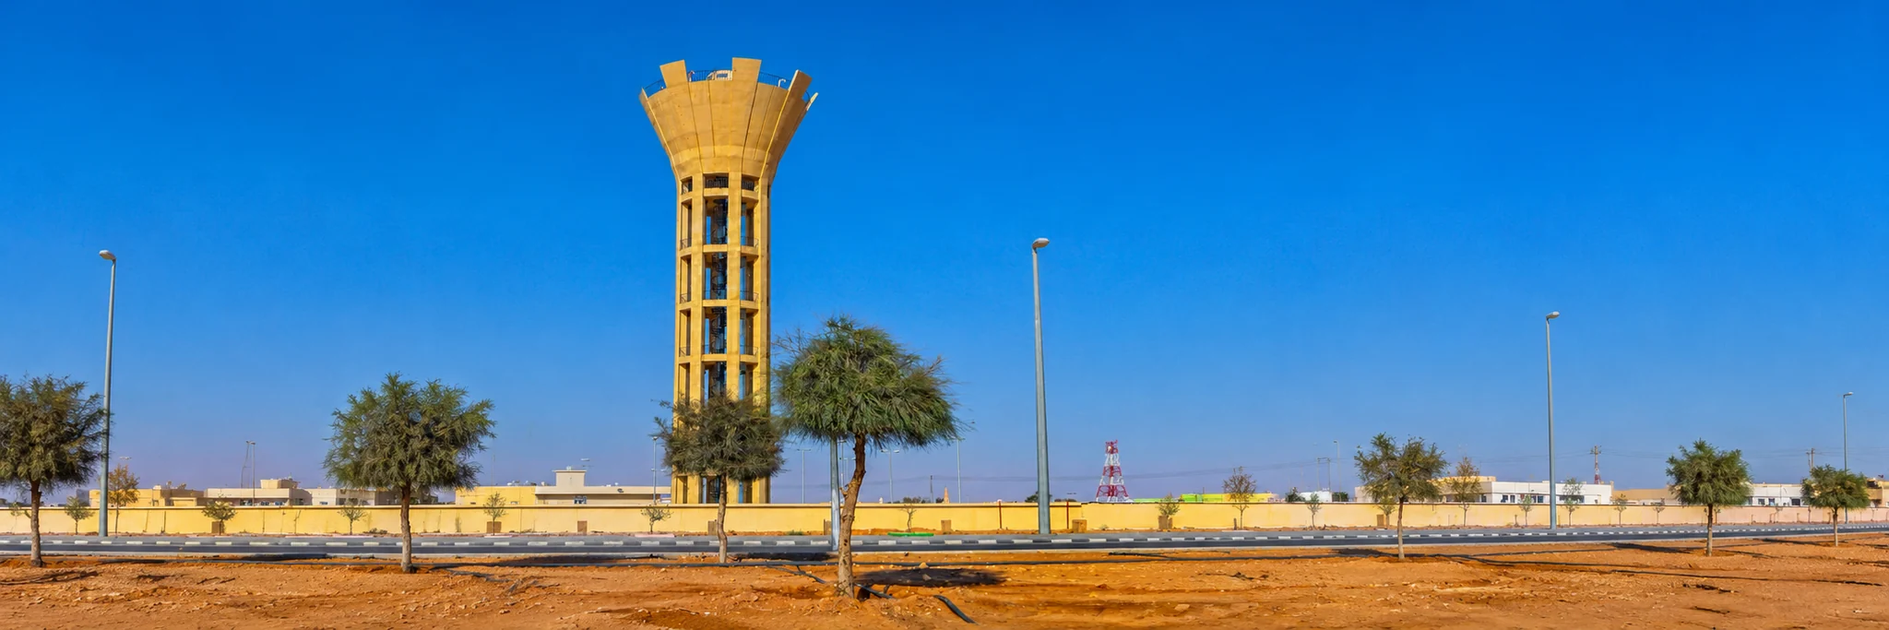
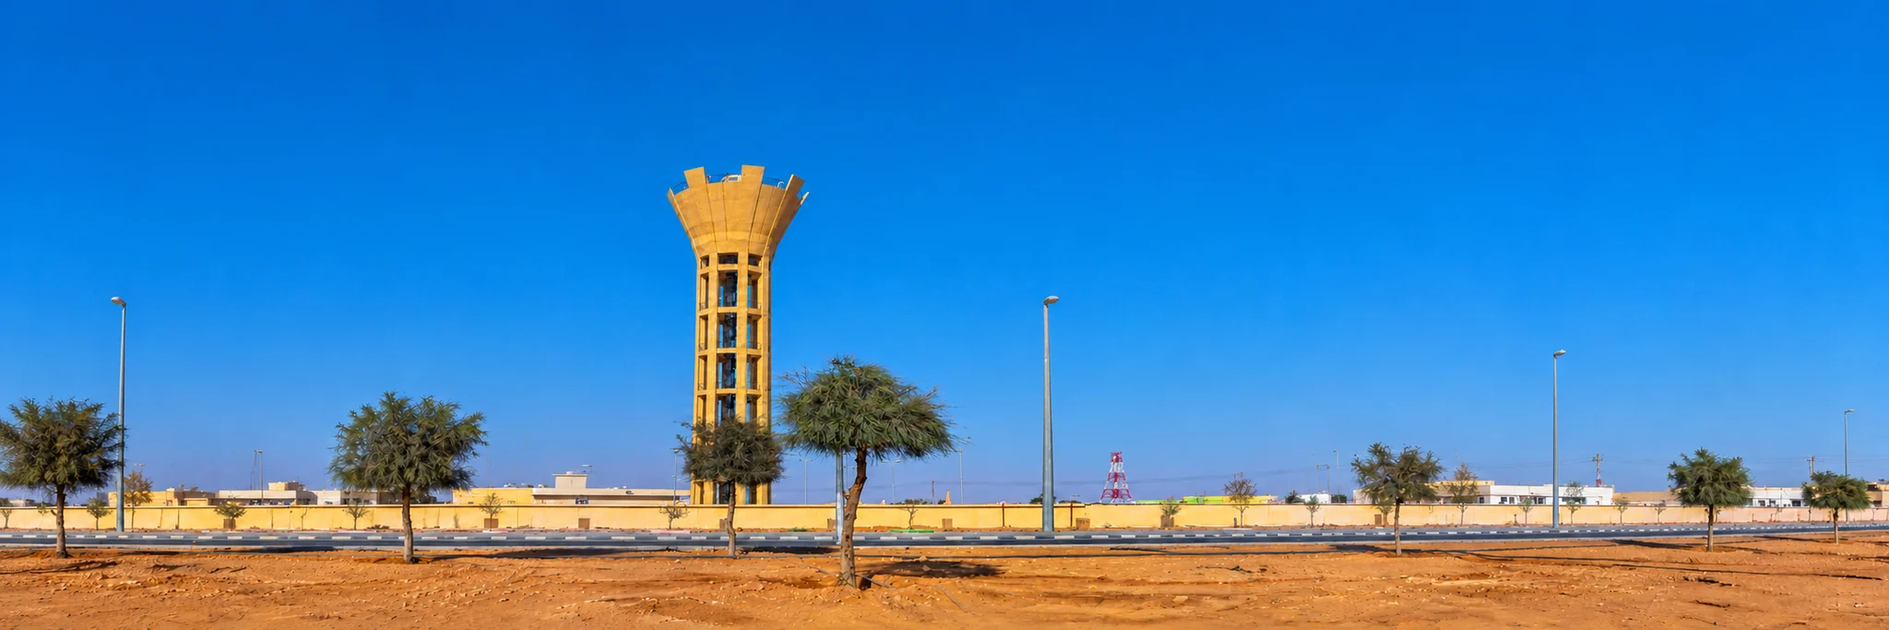
Recheck Arar and Badr with complete landmark breathing room

Changed region(s): [[0.0, 0.0922, 1.0, 1.0]]

diff --git a/riyad-opportunities/qa/panorama-preview/index.html b/riyad-opportunities/qa/panorama-preview/index.html
@@ -3,4 +3,4 @@
 <section class="sample"><h2>خميس مشيط</h2><div id="khamis" class="city-hero khamis"><img src="khamis-panorama-natural.webp" alt="تصور بانورامي محسّن لخميس مشيط"><div class="city-hero-copy">مرحبًا بك<br>فرع خميس مشيط</div></div></section>
 <section class="sample"><h2>الرياض — الصورة الحالية</h2><div id="riyadh" class="city-hero riyadh"><img src="../../assets/images/city-riyadh.webp" alt="الرياض"><div class="city-hero-copy">مرحبًا بك<br>فرع الرياض</div></div></section>
 <section class="sample"><h2>الباحة — الصورة الحالية</h2><div id="baha" class="city-hero baha"><img src="../../assets/images/cities/al-baha-cc0.webp" alt="الباحة"><div class="city-hero-copy">مرحبًا بك<br>فرع الباحة</div></div></section>
-<p><a href="manifest.json">المصادر والتراخيص والتعديلات</a> — لا تغيّر هذه المعاينة الموقع الحي أو صور المدن المنشورة.</p><h1>تشخيص الصور الحالية دون أي توليد: قص cover مع تحسين التركيز لثماني صور</h1><section class="sample"><h2>الخبر</h2><div id="contain-01" class="city-hero"><img style="object-position:20% 50%" src="../../assets/images/cities/khobar-pexels.webp" alt="الخبر"><div class="city-hero-copy">الخبر</div></div></section><section class="sample"><h2>الظهران</h2><div id="contain-02" class="city-hero"><img style="object-position:20% 50%" src="../../assets/images/cities/dhahran-pexels.webp" alt="الظهران"><div class="city-hero-copy">الظهران</div></div></section><section class="sample"><h2>ينبع</h2><div id="contain-03" class="city-hero"><img style="object-position:20% 50%" src="../../assets/images/cities/yanbu-pexels.webp" alt="ينبع"><div class="city-hero-copy">ينبع</div></div></section><section class="sample"><h2>بريدة</h2><div id="contain-04" class="city-hero"><img style="object-position:20% 50%" src="../../assets/images/cities/buraidah-tower-real.webp" alt="بريدة"><div class="city-hero-copy">بريدة</div></div></section><section class="sample"><h2>البكيرية</h2><div id="contain-05" class="city-hero"><img style="object-position:50% 50%" src="../../assets/images/cities/bukayriyah-rajhi-palace-real.jpg" alt="البكيرية"><div class="city-hero-copy">البكيرية</div></div></section><section class="sample"><h2>الدوادمي</h2><div id="contain-06" class="city-hero"><img style="object-position:50% 25%" src="../../assets/images/cities/dawadmi-palace-real.jpg" alt="الدوادمي"><div class="city-hero-copy">الدوادمي</div></div></section><section class="sample"><h2>المجمعة</h2><div id="contain-07" class="city-hero"><img style="object-position:50% 50%" src="../../assets/images/cities/majmaah-menikh-real.jpg" alt="المجمعة"><div class="city-hero-copy">المجمعة</div></div></section><section class="sample"><h2>المذنب</h2><div id="contain-08" class="city-hero"><img style="object-position:50% 50%" src="../../assets/images/cities/spa-city-2551563.jpg" alt="المذنب"><div class="city-hero-copy">المذنب</div></div></section><section class="sample"><h2>الدلم</h2><div id="contain-09" class="city-hero"><img style="object-position:50% 25%" src="../../assets/images/cities/dilam-gate-real.jpg" alt="الدلم"><div class="city-hero-copy">الدلم</div></div></section><section class="sample"><h2>المزاحمية</h2><div id="contain-10" class="city-hero"><img style="object-position:50% 50%" src="../../assets/images/cities/muzahimiyah-tower-real.jpg" alt="المزاحمية"><div class="city-hero-copy">المزاحمية</div></div></section><section class="sample"><h2>القويعية</h2><div id="contain-11" class="city-hero"><img style="object-position:50% 50%" src="../../assets/images/cities/quwayiyah-musher-real.jpg" alt="القويعية"><div class="city-hero-copy">القويعية</div></div></section><section class="sample"><h2>وادي الدواسر</h2><div id="contain-12" class="city-hero"><img style="object-position:50% 50%" src="../../assets/images/cities/wadi-dawasir-palace-real.jpg" alt="وادي الدواسر"><div class="city-hero-copy">وادي الدواسر</div></div></section><section class="sample"><h2>السليل</h2><div id="contain-13" class="city-hero"><img style="object-position:50% 50%" src="../../assets/images/cities/sulayyil-park-real.jpg" alt="السليل"><div class="city-hero-copy">السليل</div></div></section><section class="sample"><h2>الزلفي</h2><div id="contain-14" class="city-hero"><img style="object-position:50% 50%" src="../../assets/images/cities/zulfi-landmark-real.jpg" alt="الزلفي"><div class="city-hero-copy">الزلفي</div></div></section><section class="sample"><h2>ضرما</h2><div id="contain-15" class="city-hero"><img style="object-position:50% 50%" src="../../assets/images/cities/dhurma-heritage-real.jpg" alt="ضرما"><div class="city-hero-copy">ضرما</div></div></section><section class="sample"><h2>تبوك</h2><div id="contain-16" class="city-hero"><img style="object-position:50% 50%" src="../../assets/images/cities/tabuk.webp" alt="تبوك"><div class="city-hero-copy">تبوك</div></div></section><section class="sample"><h2>حائل</h2><div id="contain-17" class="city-hero"><img style="object-position:50% 50%" src="../../assets/images/cities/hail.webp" alt="حائل"><div class="city-hero-copy">حائل</div></div></section><section class="sample"><h2>دومة الجندل</h2><div id="contain-18" class="city-hero"><img style="object-position:20% 50%" src="../../assets/images/cities/city-real-50224823941.jpg" alt="دومة الجندل"><div class="city-hero-copy">دومة الجندل</div></div></section><section class="sample"><h2>خيبر</h2><div id="contain-19" class="city-hero"><img style="object-position:50% 75%" src="../../assets/images/cities/khaybar-qamus-real.jpg" alt="خيبر"><div class="city-hero-copy">خيبر</div></div></section><section class="sample"><h2>ضباء</h2><div id="contain-20" class="city-hero"><img style="object-position:50% 46%" src="../../assets/images/cities/spa-city-2369525.jpg" alt="ضباء"><div class="city-hero-copy">ضباء</div></div></section><section class="sample"><h2>أملج</h2><div id="contain-21" class="city-hero"><img style="object-position:50% 28%" src="../../assets/images/cities/spa-city-2507676.jpg" alt="أملج"><div class="city-hero-copy">أملج</div></div></section><section class="sample"><h2>سيهات</h2><div id="contain-22" class="city-hero"><img style="object-position:50% 50%" src="../../assets/images/cities/saihat-corniche-real.jpg" alt="سيهات"><div class="city-hero-copy">سيهات</div></div></section><section class="sample"><h2>الخفجي</h2><div id="contain-23" class="city-hero"><img style="object-position:50% 50%" src="../../assets/images/cities/khafji-mall-real.jpg" alt="الخفجي"><div class="city-hero-copy">الخفجي</div></div></section><section class="sample"><h2>القطيف</h2><div id="contain-24" class="city-hero"><img style="object-position:50% 50%" src="../../assets/images/cities/spa-city-2573318.jpg" alt="القطيف"><div class="city-hero-copy">القطيف</div></div></section><section class="sample"><h2>عرعر</h2><div id="contain-25" class="city-hero"><img style="object-position:50% 50%" src="../../assets/images/cities/arar-water-tower-real.jpg" alt="عرعر"><div class="city-hero-copy">عرعر</div></div></section><section class="sample"><h2>العلا</h2><div id="contain-26" class="city-hero"><img style="object-position:50% 45%" src="../../assets/images/cities/city-real-49712771757.jpg" alt="العلا"><div class="city-hero-copy">العلا</div></div></section><section class="sample"><h2>حفر الباطن</h2><div id="contain-27" class="city-hero"><img style="object-position:50% 50%" src="../../assets/images/cities/hafar-landmark-real.jpg" alt="حفر الباطن"><div class="city-hero-copy">حفر الباطن</div></div></section><section class="sample"><h2>صفوى</h2><div id="contain-28" class="city-hero"><img style="object-position:50% 74%" src="../../assets/images/cities/safwa-coast-real.jpg" alt="صفوى"><div class="city-hero-copy">صفوى</div></div></section><section class="sample"><h2>القريات</h2><div id="contain-29" class="city-hero"><img style="object-position:50% 50%" src="../../assets/images/cities/qurayyat-kaf-real.jpg" alt="القريات"><div class="city-hero-copy">القريات</div></div></section><section class="sample"><h2>الطائف</h2><div id="contain-30" class="city-hero"><img style="object-position:50% 50%" src="../../assets/images/cities/taif.webp" alt="الطائف"><div class="city-hero-copy">الطائف</div></div></section><section class="sample"><h2>نجران</h2><div id="contain-31" class="city-hero"><img style="object-position:50% 50%" src="../../assets/images/cities/najran.webp" alt="نجران"><div class="city-hero-copy">نجران</div></div></section><section class="sample"><h2>جازان</h2><div id="contain-32" class="city-hero"><img style="object-position:50% 50%" src="../../assets/images/cities/jazan.webp" alt="جازان"><div class="city-hero-copy">جازان</div></div></section><section class="sample"><h2>أبو عريش</h2><div id="contain-33" class="city-hero"><img style="object-position:50% 50%" src="../../assets/images/cities/spa-city-2382886.jpg" alt="أبو عريش"><div class="city-hero-copy">أبو عريش</div></div></section><section class="sample"><h2>النماص</h2><div id="contain-34" class="city-hero"><img style="object-position:20% 50%" src="../../assets/images/cities/city-real-50922230847.jpg" alt="النماص"><div class="city-hero-copy">النماص</div></div></section><section class="sample"><h2>بدر</h2><div id="contain-35" class="city-hero"><img style="object-position:50% 50%" src="../../assets/images/cities/badr-arish-real.jpg" alt="بدر"><div class="city-hero-copy">بدر</div></div></section><section class="sample"><h2>بلجرشي</h2><div id="contain-36" class="city-hero"><img style="object-position:50% 50%" src="../../assets/images/cities/spa-city-2287739.jpg" alt="بلجرشي"><div class="city-hero-copy">بلجرشي</div></div></section><section class="sample"><h2>بيشة</h2><div id="contain-37" class="city-hero"><img style="object-position:50% 50%" src="../../assets/images/cities/bisha-dam-real.jpg" alt="بيشة"><div class="city-hero-copy">بيشة</div></div></section><section class="sample"><h2>رابغ</h2><div id="contain-38" class="city-hero"><img style="object-position:50% 85%" src="../../assets/images/cities/rabigh-streetscape-real.jpg" alt="رابغ"><div class="city-hero-copy">رابغ</div></div></section><section class="sample"><h2>بيش</h2><div id="contain-39" class="city-hero"><img style="object-position:50% 50%" src="../../assets/images/cities/spa-city-2310374.jpg" alt="بيش"><div class="city-hero-copy">بيش</div></div></section><section class="sample"><h2>البكيرية — امتداد تمثيلي محسّن بالذكاء الاصطناعي</h2><p>امتداد تمثيلي محسّن بالذكاء الاصطناعي. Saudi Heritage Commission / هيئة التراث <a href="https://commons.wikimedia.org/wiki/File:%D9%85%D9%82%D8%B5%D9%88%D8%B1%D8%A9_%D8%A7%D9%84%D8%B1%D8%A7%D8%AC%D8%AD%D9%8A.jpg">الصورة الأصلية</a> <a href="https://creativecommons.org/licenses/by-sa/4.0/">CC BY-SA 4.0</a></p><div id="faithful-a-bukayriyah" class="city-hero"><img style="object-position:50% 50%" src="faithful-batch-a/bukayriyah-panorama-faithful.webp" alt="تصور تمثيلي: البكيرية"><div class="city-hero-copy">البكيرية</div></div></section><section class="sample"><h2>المجمعة — امتداد تمثيلي محسّن بالذكاء الاصطناعي</h2><p>امتداد تمثيلي محسّن بالذكاء الاصطناعي. هيئة التراث السعودية (Heritage Commission) <a href="https://commons.wikimedia.org/wiki/File:مرقب_منيخ.jpg">الصورة الأصلية</a> <a href="https://creativecommons.org/licenses/by-sa/4.0/">CC BY-SA4.0</a></p><div id="faithful-a-majmaah" class="city-hero"><img style="object-position:50% 50%" src="faithful-batch-a/majmaah-panorama-faithful.webp" alt="تصور تمثيلي: المجمعة"><div class="city-hero-copy">المجمعة</div></div></section><section class="sample"><h2>المزاحمية — امتداد تمثيلي محسّن بالذكاء الاصطناعي</h2><p>امتداد تمثيلي محسّن بالذكاء الاصطناعي. Andrew A. Shenouda <a href="https://commons.wikimedia.org/wiki/File:The_Main_Street_in_Al-Muzahimiyah_(HDR)_(3312344154).jpg">الصورة الأصلية</a> <a href="https://creativecommons.org/licenses/by/2.0/">CC BY2.0</a></p><div id="faithful-a-muzahimiyah" class="city-hero"><img style="object-position:50% 50%" src="faithful-batch-a/muzahimiyah-panorama-faithful.webp" alt="تصور تمثيلي: المزاحمية"><div class="city-hero-copy">المزاحمية</div></div></section><section class="sample"><h2>وادي الدواسر — امتداد تمثيلي محسّن بالذكاء الاصطناعي</h2><p>امتداد تمثيلي محسّن بالذكاء الاصطناعي. هيئة التراث السعودية <a href="https://commons.wikimedia.org/wiki/File:قصر_الملك_عبدالعزيز_وادي_الدواسر2.jpg">الصورة الأصلية</a> <a href="https://creativecommons.org/licenses/by-sa/4.0/">CC BY-SA4.0</a></p><div id="faithful-a-wadi-dawasir" class="city-hero"><img style="object-position:50% 70%" src="faithful-batch-a/wadi-dawasir-panorama-faithful.webp" alt="تصور تمثيلي: وادي الدواسر"><div class="city-hero-copy">وادي الدواسر</div></div></section><section class="sample"><h2>الزلفي — امتداد تمثيلي محسّن بالذكاء الاصطناعي</h2><p>امتداد تمثيلي محسّن بالذكاء الاصطناعي. Slayym <a href="https://commons.wikimedia.org/wiki/File:Al_Zulfi_landmark_-1.jpg">الصورة الأصلية</a> <a href="https://creativecommons.org/licenses/by-sa/4.0/">CC BY-SA4.0</a></p><div id="faithful-a-zulfi" class="city-hero"><img style="object-position:50% 70%" src="faithful-batch-a/zulfi-panorama-faithful.webp" alt="تصور تمثيلي: الزلفي"><div class="city-hero-copy">الزلفي</div></div></section><section class="sample"><h2>تبوك — امتداد تمثيلي محسّن بالذكاء الاصطناعي</h2><p>امتداد تمثيلي محسّن بالذكاء الاصطناعي. Saudi Heritage Commission / هيئة التراث <a href="https://commons.wikimedia.org/wiki/File:%D9%82%D9%84%D8%B9%D8%A9_%D8%AA%D8%A8%D9%88%D9%83.jpg">الصورة الأصلية</a> <a href="https://creativecommons.org/licenses/by-sa/4.0/">CC BY-SA 4.0</a></p><div id="faithful-a-tabuk" class="city-hero"><img style="object-position:50% 55%" src="faithful-batch-a/tabuk-panorama-faithful.webp" alt="تصور تمثيلي: تبوك"><div class="city-hero-copy">تبوك</div></div></section><section class="sample"><h2>حائل — امتداد تمثيلي محسّن بالذكاء الاصطناعي</h2><p>امتداد تمثيلي محسّن بالذكاء الاصطناعي. معلومات حائل <a href="https://commons.wikimedia.org/wiki/File:%D9%82%D9%84%D8%B9%D8%A9_%D8%A7%D8%B9%D9%8A%D8%B1%D9%81_%D9%81%D9%8A_%D8%AD%D8%A7%D8%A6%D9%84_-_panoramio.jpg">الصورة الأصلية</a> <a href="https://creativecommons.org/licenses/by/3.0/">CC BY 3.0</a></p><div id="faithful-a-hail" class="city-hero"><img style="object-position:50% 50%" src="faithful-batch-a/hail-panorama-faithful.webp" alt="تصور تمثيلي: حائل"><div class="city-hero-copy">حائل</div></div></section><section class="sample"><h2>دومة الجندل — امتداد تمثيلي محسّن بالذكاء الاصطناعي</h2><p>امتداد تمثيلي محسّن بالذكاء الاصطناعي. Richard Mortel <a href="https://www.flickr.com/photos/prof_richard/50224823941">الصورة الأصلية</a> <a href="https://creativecommons.org/licenses/by/2.0/deed.en">CC BY 2.0</a></p><div id="faithful-a-dumat-jandal" class="city-hero"><img style="object-position:50% 50%" src="faithful-batch-a/dumat-jandal-panorama-faithful.webp" alt="تصور تمثيلي: دومة الجندل"><div class="city-hero-copy">دومة الجندل</div></div></section><section class="sample"><h2>الدلم — امتداد تمثيلي محسّن بالذكاء الاصطناعي</h2><p>امتداد تمثيلي محسّن بالذكاء الاصطناعي. هيئة التراث السعودية <a href="https://commons.wikimedia.org/wiki/File:سور_الدلم1.jpg">الصورة الأصلية</a> <a href="https://creativecommons.org/licenses/by-sa/4.0/">CC BY-SA4.0</a></p><div id="faithful-a-dilam" class="city-hero"><img style="object-position:50% 50%" src="faithful-batch-a/dilam-panorama-faithful.webp" alt="تصور تمثيلي: الدلم"><div class="city-hero-copy">الدلم</div></div></section><section class="sample"><h2>الخفجي — امتداد تمثيلي محسّن بالذكاء الاصطناعي</h2><p>امتداد تمثيلي محسّن بالذكاء الاصطناعي. Abodi009 <a href="https://commons.wikimedia.org/wiki/File:Al-Khafji_Mall.jpg">الصورة الأصلية</a> <a href="https://creativecommons.org/licenses/by-sa/3.0/">CC BY-SA3.0</a></p><div id="faithful-b-khafji" class="city-hero"><img style="object-position:50% 50%" src="faithful-batch-b/khafji-panorama-faithful.webp" alt="تصور تمثيلي: الخفجي"><div class="city-hero-copy">الخفجي</div></div></section><section class="sample"><h2>عرعر — امتداد تمثيلي محسّن بالذكاء الاصطناعي</h2><p>امتداد تمثيلي محسّن بالذكاء الاصطناعي. Joel Salazar <a href="https://www.flickr.com/photos/joelsalazar/4251697429">الصورة الأصلية</a> <a href="https://creativecommons.org/licenses/by/2.0/">CC BY 2.0</a></p><div id="faithful-b-arar" class="city-hero"><img style="object-position:50% 30%" src="faithful-batch-b/arar-panorama-faithful.webp" alt="تصور تمثيلي: عرعر"><div class="city-hero-copy">عرعر</div></div></section><section class="sample"><h2>حفر الباطن — امتداد تمثيلي محسّن بالذكاء الاصطناعي</h2><p>امتداد تمثيلي محسّن بالذكاء الاصطناعي. Slayym <a href="https://commons.wikimedia.org/wiki/File:Landmark_in_Hafar_Al_Batin.jpg">الصورة الأصلية</a> <a href="https://creativecommons.org/licenses/by-sa/4.0/">CC BY-SA4.0</a></p><div id="faithful-b-hafar" class="city-hero"><img style="object-position:50% 50%" src="faithful-batch-b/hafar-panorama-faithful.webp" alt="تصور تمثيلي: حفر الباطن"><div class="city-hero-copy">حفر الباطن</div></div></section><section class="sample"><h2>الطائف — امتداد تمثيلي محسّن بالذكاء الاصطناعي</h2><p>امتداد تمثيلي محسّن بالذكاء الاصطناعي. Saudi Heritage Commission / هيئة التراث <a href="https://commons.wikimedia.org/wiki/File:%D9%82%D8%B5%D8%B1_%D8%B4%D8%A8%D8%B1%D8%A7.jpg">الصورة الأصلية</a> <a href="https://creativecommons.org/licenses/by-sa/4.0/">CC BY-SA 4.0</a></p><div id="faithful-b-taif" class="city-hero"><img style="object-position:50% 65%" src="faithful-batch-b/taif-panorama-faithful.webp" alt="تصور تمثيلي: الطائف"><div class="city-hero-copy">الطائف</div></div></section><section class="sample"><h2>نجران — امتداد تمثيلي محسّن بالذكاء الاصطناعي</h2><p>امتداد تمثيلي محسّن بالذكاء الاصطناعي. Richard Mortel <a href="https://commons.wikimedia.org/wiki/File:Imarah_Palace.jpg">الصورة الأصلية</a> <a href="https://creativecommons.org/licenses/by/2.0/">CC BY 2.0</a></p><div id="faithful-b-najran" class="city-hero"><img style="object-position:50% 75%" src="faithful-batch-b/najran-panorama-faithful.webp" alt="تصور تمثيلي: نجران"><div class="city-hero-copy">نجران</div></div></section><section class="sample"><h2>جازان — امتداد تمثيلي محسّن بالذكاء الاصطناعي</h2><p>امتداد تمثيلي محسّن بالذكاء الاصطناعي. Saudi Heritage Commission / هيئة التراث <a href="https://commons.wikimedia.org/wiki/File:%D8%A7%D9%84%D9%82%D9%84%D8%B9%D8%A9_%D8%A7%D9%84%D8%AF%D9%88%D8%B3%D8%B1%D9%8A%D8%A9.jpg">الصورة الأصلية</a> <a href="https://creativecommons.org/licenses/by-sa/4.0/">CC BY-SA 4.0</a></p><div id="faithful-b-jazan" class="city-hero"><img style="object-position:50% 60%" src="faithful-batch-b/jazan-panorama-faithful.webp" alt="تصور تمثيلي: جازان"><div class="city-hero-copy">جازان</div></div></section><section class="sample"><h2>النماص — امتداد تمثيلي محسّن بالذكاء الاصطناعي</h2><p>امتداد تمثيلي محسّن بالذكاء الاصطناعي. Richard Mortel <a href="https://www.flickr.com/photos/prof_richard/50922230847">الصورة الأصلية</a> <a href="https://creativecommons.org/licenses/by/2.0/deed.en">CC BY 2.0</a></p><div id="faithful-b-alnamas" class="city-hero"><img style="object-position:50% 70%" src="faithful-batch-b/alnamas-panorama-faithful.webp" alt="تصور تمثيلي: النماص"><div class="city-hero-copy">النماص</div></div></section><section class="sample"><h2>بدر — امتداد تمثيلي محسّن بالذكاء الاصطناعي</h2><p>امتداد تمثيلي محسّن بالذكاء الاصطناعي. Richard Mortel <a href="https://www.flickr.com/photos/prof_richard/51279270124">الصورة الأصلية</a> <a href="https://creativecommons.org/licenses/by/2.0/">CC BY 2.0</a></p><div id="faithful-b-badr" class="city-hero"><img style="object-position:50% 50%" src="faithful-batch-b/badr-panorama-faithful.webp" alt="تصور تمثيلي: بدر"><div class="city-hero-copy">بدر</div></div></section><section class="sample"><h2>بلجرشي — امتداد تمثيلي محسّن بالذكاء الاصطناعي</h2><p>امتداد تمثيلي محسّن بالذكاء الاصطناعي. وكالة الأنباء السعودية (واس) <a href="https://cc.spa.gov.sa/ar/news/2287739">الصورة الأصلية</a> <a href="https://creativecommons.org/licenses/by-sa/4.0/">CC BY-SA 4.0</a></p><div id="faithful-b-baljurashi" class="city-hero"><img style="object-position:50% 50%" src="faithful-batch-b/baljurashi-panorama-faithful.webp" alt="تصور تمثيلي: بلجرشي"><div class="city-hero-copy">بلجرشي</div></div></section></main></html>
+<p><a href="manifest.json">المصادر والتراخيص والتعديلات</a> — لا تغيّر هذه المعاينة الموقع الحي أو صور المدن المنشورة.</p><h1>تشخيص الصور الحالية دون أي توليد: قص cover مع تحسين التركيز لثماني صور</h1><section class="sample"><h2>الخبر</h2><div id="contain-01" class="city-hero"><img style="object-position:20% 50%" src="../../assets/images/cities/khobar-pexels.webp" alt="الخبر"><div class="city-hero-copy">الخبر</div></div></section><section class="sample"><h2>الظهران</h2><div id="contain-02" class="city-hero"><img style="object-position:20% 50%" src="../../assets/images/cities/dhahran-pexels.webp" alt="الظهران"><div class="city-hero-copy">الظهران</div></div></section><section class="sample"><h2>ينبع</h2><div id="contain-03" class="city-hero"><img style="object-position:20% 50%" src="../../assets/images/cities/yanbu-pexels.webp" alt="ينبع"><div class="city-hero-copy">ينبع</div></div></section><section class="sample"><h2>بريدة</h2><div id="contain-04" class="city-hero"><img style="object-position:20% 50%" src="../../assets/images/cities/buraidah-tower-real.webp" alt="بريدة"><div class="city-hero-copy">بريدة</div></div></section><section class="sample"><h2>البكيرية</h2><div id="contain-05" class="city-hero"><img style="object-position:50% 50%" src="../../assets/images/cities/bukayriyah-rajhi-palace-real.jpg" alt="البكيرية"><div class="city-hero-copy">البكيرية</div></div></section><section class="sample"><h2>الدوادمي</h2><div id="contain-06" class="city-hero"><img style="object-position:50% 25%" src="../../assets/images/cities/dawadmi-palace-real.jpg" alt="الدوادمي"><div class="city-hero-copy">الدوادمي</div></div></section><section class="sample"><h2>المجمعة</h2><div id="contain-07" class="city-hero"><img style="object-position:50% 50%" src="../../assets/images/cities/majmaah-menikh-real.jpg" alt="المجمعة"><div class="city-hero-copy">المجمعة</div></div></section><section class="sample"><h2>المذنب</h2><div id="contain-08" class="city-hero"><img style="object-position:50% 50%" src="../../assets/images/cities/spa-city-2551563.jpg" alt="المذنب"><div class="city-hero-copy">المذنب</div></div></section><section class="sample"><h2>الدلم</h2><div id="contain-09" class="city-hero"><img style="object-position:50% 25%" src="../../assets/images/cities/dilam-gate-real.jpg" alt="الدلم"><div class="city-hero-copy">الدلم</div></div></section><section class="sample"><h2>المزاحمية</h2><div id="contain-10" class="city-hero"><img style="object-position:50% 50%" src="../../assets/images/cities/muzahimiyah-tower-real.jpg" alt="المزاحمية"><div class="city-hero-copy">المزاحمية</div></div></section><section class="sample"><h2>القويعية</h2><div id="contain-11" class="city-hero"><img style="object-position:50% 50%" src="../../assets/images/cities/quwayiyah-musher-real.jpg" alt="القويعية"><div class="city-hero-copy">القويعية</div></div></section><section class="sample"><h2>وادي الدواسر</h2><div id="contain-12" class="city-hero"><img style="object-position:50% 50%" src="../../assets/images/cities/wadi-dawasir-palace-real.jpg" alt="وادي الدواسر"><div class="city-hero-copy">وادي الدواسر</div></div></section><section class="sample"><h2>السليل</h2><div id="contain-13" class="city-hero"><img style="object-position:50% 50%" src="../../assets/images/cities/sulayyil-park-real.jpg" alt="السليل"><div class="city-hero-copy">السليل</div></div></section><section class="sample"><h2>الزلفي</h2><div id="contain-14" class="city-hero"><img style="object-position:50% 50%" src="../../assets/images/cities/zulfi-landmark-real.jpg" alt="الزلفي"><div class="city-hero-copy">الزلفي</div></div></section><section class="sample"><h2>ضرما</h2><div id="contain-15" class="city-hero"><img style="object-position:50% 50%" src="../../assets/images/cities/dhurma-heritage-real.jpg" alt="ضرما"><div class="city-hero-copy">ضرما</div></div></section><section class="sample"><h2>تبوك</h2><div id="contain-16" class="city-hero"><img style="object-position:50% 50%" src="../../assets/images/cities/tabuk.webp" alt="تبوك"><div class="city-hero-copy">تبوك</div></div></section><section class="sample"><h2>حائل</h2><div id="contain-17" class="city-hero"><img style="object-position:50% 50%" src="../../assets/images/cities/hail.webp" alt="حائل"><div class="city-hero-copy">حائل</div></div></section><section class="sample"><h2>دومة الجندل</h2><div id="contain-18" class="city-hero"><img style="object-position:20% 50%" src="../../assets/images/cities/city-real-50224823941.jpg" alt="دومة الجندل"><div class="city-hero-copy">دومة الجندل</div></div></section><section class="sample"><h2>خيبر</h2><div id="contain-19" class="city-hero"><img style="object-position:50% 75%" src="../../assets/images/cities/khaybar-qamus-real.jpg" alt="خيبر"><div class="city-hero-copy">خيبر</div></div></section><section class="sample"><h2>ضباء</h2><div id="contain-20" class="city-hero"><img style="object-position:50% 46%" src="../../assets/images/cities/spa-city-2369525.jpg" alt="ضباء"><div class="city-hero-copy">ضباء</div></div></section><section class="sample"><h2>أملج</h2><div id="contain-21" class="city-hero"><img style="object-position:50% 28%" src="../../assets/images/cities/spa-city-2507676.jpg" alt="أملج"><div class="city-hero-copy">أملج</div></div></section><section class="sample"><h2>سيهات</h2><div id="contain-22" class="city-hero"><img style="object-position:50% 50%" src="../../assets/images/cities/saihat-corniche-real.jpg" alt="سيهات"><div class="city-hero-copy">سيهات</div></div></section><section class="sample"><h2>الخفجي</h2><div id="contain-23" class="city-hero"><img style="object-position:50% 50%" src="../../assets/images/cities/khafji-mall-real.jpg" alt="الخفجي"><div class="city-hero-copy">الخفجي</div></div></section><section class="sample"><h2>القطيف</h2><div id="contain-24" class="city-hero"><img style="object-position:50% 50%" src="../../assets/images/cities/spa-city-2573318.jpg" alt="القطيف"><div class="city-hero-copy">القطيف</div></div></section><section class="sample"><h2>عرعر</h2><div id="contain-25" class="city-hero"><img style="object-position:50% 50%" src="../../assets/images/cities/arar-water-tower-real.jpg" alt="عرعر"><div class="city-hero-copy">عرعر</div></div></section><section class="sample"><h2>العلا</h2><div id="contain-26" class="city-hero"><img style="object-position:50% 45%" src="../../assets/images/cities/city-real-49712771757.jpg" alt="العلا"><div class="city-hero-copy">العلا</div></div></section><section class="sample"><h2>حفر الباطن</h2><div id="contain-27" class="city-hero"><img style="object-position:50% 50%" src="../../assets/images/cities/hafar-landmark-real.jpg" alt="حفر الباطن"><div class="city-hero-copy">حفر الباطن</div></div></section><section class="sample"><h2>صفوى</h2><div id="contain-28" class="city-hero"><img style="object-position:50% 74%" src="../../assets/images/cities/safwa-coast-real.jpg" alt="صفوى"><div class="city-hero-copy">صفوى</div></div></section><section class="sample"><h2>القريات</h2><div id="contain-29" class="city-hero"><img style="object-position:50% 50%" src="../../assets/images/cities/qurayyat-kaf-real.jpg" alt="القريات"><div class="city-hero-copy">القريات</div></div></section><section class="sample"><h2>الطائف</h2><div id="contain-30" class="city-hero"><img style="object-position:50% 50%" src="../../assets/images/cities/taif.webp" alt="الطائف"><div class="city-hero-copy">الطائف</div></div></section><section class="sample"><h2>نجران</h2><div id="contain-31" class="city-hero"><img style="object-position:50% 50%" src="../../assets/images/cities/najran.webp" alt="نجران"><div class="city-hero-copy">نجران</div></div></section><section class="sample"><h2>جازان</h2><div id="contain-32" class="city-hero"><img style="object-position:50% 50%" src="../../assets/images/cities/jazan.webp" alt="جازان"><div class="city-hero-copy">جازان</div></div></section><section class="sample"><h2>أبو عريش</h2><div id="contain-33" class="city-hero"><img style="object-position:50% 50%" src="../../assets/images/cities/spa-city-2382886.jpg" alt="أبو عريش"><div class="city-hero-copy">أبو عريش</div></div></section><section class="sample"><h2>النماص</h2><div id="contain-34" class="city-hero"><img style="object-position:20% 50%" src="../../assets/images/cities/city-real-50922230847.jpg" alt="النماص"><div class="city-hero-copy">النماص</div></div></section><section class="sample"><h2>بدر</h2><div id="contain-35" class="city-hero"><img style="object-position:50% 50%" src="../../assets/images/cities/badr-arish-real.jpg" alt="بدر"><div class="city-hero-copy">بدر</div></div></section><section class="sample"><h2>بلجرشي</h2><div id="contain-36" class="city-hero"><img style="object-position:50% 50%" src="../../assets/images/cities/spa-city-2287739.jpg" alt="بلجرشي"><div class="city-hero-copy">بلجرشي</div></div></section><section class="sample"><h2>بيشة</h2><div id="contain-37" class="city-hero"><img style="object-position:50% 50%" src="../../assets/images/cities/bisha-dam-real.jpg" alt="بيشة"><div class="city-hero-copy">بيشة</div></div></section><section class="sample"><h2>رابغ</h2><div id="contain-38" class="city-hero"><img style="object-position:50% 85%" src="../../assets/images/cities/rabigh-streetscape-real.jpg" alt="رابغ"><div class="city-hero-copy">رابغ</div></div></section><section class="sample"><h2>بيش</h2><div id="contain-39" class="city-hero"><img style="object-position:50% 50%" src="../../assets/images/cities/spa-city-2310374.jpg" alt="بيش"><div class="city-hero-copy">بيش</div></div></section><section class="sample"><h2>البكيرية — امتداد تمثيلي محسّن بالذكاء الاصطناعي</h2><p>امتداد تمثيلي محسّن بالذكاء الاصطناعي. Saudi Heritage Commission / هيئة التراث <a href="https://commons.wikimedia.org/wiki/File:%D9%85%D9%82%D8%B5%D9%88%D8%B1%D8%A9_%D8%A7%D9%84%D8%B1%D8%A7%D8%AC%D8%AD%D9%8A.jpg">الصورة الأصلية</a> <a href="https://creativecommons.org/licenses/by-sa/4.0/">CC BY-SA 4.0</a></p><div id="faithful-a-bukayriyah" class="city-hero"><img style="object-position:50% 50%" src="faithful-batch-a/bukayriyah-panorama-faithful.webp" alt="تصور تمثيلي: البكيرية"><div class="city-hero-copy">البكيرية</div></div></section><section class="sample"><h2>المجمعة — امتداد تمثيلي محسّن بالذكاء الاصطناعي</h2><p>امتداد تمثيلي محسّن بالذكاء الاصطناعي. هيئة التراث السعودية (Heritage Commission) <a href="https://commons.wikimedia.org/wiki/File:مرقب_منيخ.jpg">الصورة الأصلية</a> <a href="https://creativecommons.org/licenses/by-sa/4.0/">CC BY-SA4.0</a></p><div id="faithful-a-majmaah" class="city-hero"><img style="object-position:50% 50%" src="faithful-batch-a/majmaah-panorama-faithful.webp" alt="تصور تمثيلي: المجمعة"><div class="city-hero-copy">المجمعة</div></div></section><section class="sample"><h2>المزاحمية — امتداد تمثيلي محسّن بالذكاء الاصطناعي</h2><p>امتداد تمثيلي محسّن بالذكاء الاصطناعي. Andrew A. Shenouda <a href="https://commons.wikimedia.org/wiki/File:The_Main_Street_in_Al-Muzahimiyah_(HDR)_(3312344154).jpg">الصورة الأصلية</a> <a href="https://creativecommons.org/licenses/by/2.0/">CC BY2.0</a></p><div id="faithful-a-muzahimiyah" class="city-hero"><img style="object-position:50% 50%" src="faithful-batch-a/muzahimiyah-panorama-faithful.webp" alt="تصور تمثيلي: المزاحمية"><div class="city-hero-copy">المزاحمية</div></div></section><section class="sample"><h2>وادي الدواسر — امتداد تمثيلي محسّن بالذكاء الاصطناعي</h2><p>امتداد تمثيلي محسّن بالذكاء الاصطناعي. هيئة التراث السعودية <a href="https://commons.wikimedia.org/wiki/File:قصر_الملك_عبدالعزيز_وادي_الدواسر2.jpg">الصورة الأصلية</a> <a href="https://creativecommons.org/licenses/by-sa/4.0/">CC BY-SA4.0</a></p><div id="faithful-a-wadi-dawasir" class="city-hero"><img style="object-position:50% 70%" src="faithful-batch-a/wadi-dawasir-panorama-faithful.webp" alt="تصور تمثيلي: وادي الدواسر"><div class="city-hero-copy">وادي الدواسر</div></div></section><section class="sample"><h2>الزلفي — امتداد تمثيلي محسّن بالذكاء الاصطناعي</h2><p>امتداد تمثيلي محسّن بالذكاء الاصطناعي. Slayym <a href="https://commons.wikimedia.org/wiki/File:Al_Zulfi_landmark_-1.jpg">الصورة الأصلية</a> <a href="https://creativecommons.org/licenses/by-sa/4.0/">CC BY-SA4.0</a></p><div id="faithful-a-zulfi" class="city-hero"><img style="object-position:50% 70%" src="faithful-batch-a/zulfi-panorama-faithful.webp" alt="تصور تمثيلي: الزلفي"><div class="city-hero-copy">الزلفي</div></div></section><section class="sample"><h2>تبوك — امتداد تمثيلي محسّن بالذكاء الاصطناعي</h2><p>امتداد تمثيلي محسّن بالذكاء الاصطناعي. Saudi Heritage Commission / هيئة التراث <a href="https://commons.wikimedia.org/wiki/File:%D9%82%D9%84%D8%B9%D8%A9_%D8%AA%D8%A8%D9%88%D9%83.jpg">الصورة الأصلية</a> <a href="https://creativecommons.org/licenses/by-sa/4.0/">CC BY-SA 4.0</a></p><div id="faithful-a-tabuk" class="city-hero"><img style="object-position:50% 55%" src="faithful-batch-a/tabuk-panorama-faithful.webp" alt="تصور تمثيلي: تبوك"><div class="city-hero-copy">تبوك</div></div></section><section class="sample"><h2>حائل — امتداد تمثيلي محسّن بالذكاء الاصطناعي</h2><p>امتداد تمثيلي محسّن بالذكاء الاصطناعي. معلومات حائل <a href="https://commons.wikimedia.org/wiki/File:%D9%82%D9%84%D8%B9%D8%A9_%D8%A7%D8%B9%D9%8A%D8%B1%D9%81_%D9%81%D9%8A_%D8%AD%D8%A7%D8%A6%D9%84_-_panoramio.jpg">الصورة الأصلية</a> <a href="https://creativecommons.org/licenses/by/3.0/">CC BY 3.0</a></p><div id="faithful-a-hail" class="city-hero"><img style="object-position:50% 50%" src="faithful-batch-a/hail-panorama-faithful.webp" alt="تصور تمثيلي: حائل"><div class="city-hero-copy">حائل</div></div></section><section class="sample"><h2>دومة الجندل — امتداد تمثيلي محسّن بالذكاء الاصطناعي</h2><p>امتداد تمثيلي محسّن بالذكاء الاصطناعي. Richard Mortel <a href="https://www.flickr.com/photos/prof_richard/50224823941">الصورة الأصلية</a> <a href="https://creativecommons.org/licenses/by/2.0/deed.en">CC BY 2.0</a></p><div id="faithful-a-dumat-jandal" class="city-hero"><img style="object-position:50% 50%" src="faithful-batch-a/dumat-jandal-panorama-faithful.webp" alt="تصور تمثيلي: دومة الجندل"><div class="city-hero-copy">دومة الجندل</div></div></section><section class="sample"><h2>الدلم — امتداد تمثيلي محسّن بالذكاء الاصطناعي</h2><p>امتداد تمثيلي محسّن بالذكاء الاصطناعي. هيئة التراث السعودية <a href="https://commons.wikimedia.org/wiki/File:سور_الدلم1.jpg">الصورة الأصلية</a> <a href="https://creativecommons.org/licenses/by-sa/4.0/">CC BY-SA4.0</a></p><div id="faithful-a-dilam" class="city-hero"><img style="object-position:50% 50%" src="faithful-batch-a/dilam-panorama-faithful.webp" alt="تصور تمثيلي: الدلم"><div class="city-hero-copy">الدلم</div></div></section><section class="sample"><h2>الخفجي — امتداد تمثيلي محسّن بالذكاء الاصطناعي</h2><p>امتداد تمثيلي محسّن بالذكاء الاصطناعي. Abodi009 <a href="https://commons.wikimedia.org/wiki/File:Al-Khafji_Mall.jpg">الصورة الأصلية</a> <a href="https://creativecommons.org/licenses/by-sa/3.0/">CC BY-SA3.0</a></p><div id="faithful-b-khafji" class="city-hero"><img style="object-position:50% 50%" src="faithful-batch-b/khafji-panorama-faithful.webp" alt="تصور تمثيلي: الخفجي"><div class="city-hero-copy">الخفجي</div></div></section><section class="sample"><h2>عرعر — امتداد تمثيلي محسّن بالذكاء الاصطناعي</h2><p>امتداد تمثيلي محسّن بالذكاء الاصطناعي. Joel Salazar <a href="https://www.flickr.com/photos/joelsalazar/4251697429">الصورة الأصلية</a> <a href="https://creativecommons.org/licenses/by/2.0/">CC BY 2.0</a></p><div id="faithful-b-arar" class="city-hero"><img style="object-position:50% 70%" src="faithful-batch-b/arar-panorama-faithful.webp" alt="تصور تمثيلي: عرعر"><div class="city-hero-copy">عرعر</div></div></section><section class="sample"><h2>حفر الباطن — امتداد تمثيلي محسّن بالذكاء الاصطناعي</h2><p>امتداد تمثيلي محسّن بالذكاء الاصطناعي. Slayym <a href="https://commons.wikimedia.org/wiki/File:Landmark_in_Hafar_Al_Batin.jpg">الصورة الأصلية</a> <a href="https://creativecommons.org/licenses/by-sa/4.0/">CC BY-SA4.0</a></p><div id="faithful-b-hafar" class="city-hero"><img style="object-position:50% 50%" src="faithful-batch-b/hafar-panorama-faithful.webp" alt="تصور تمثيلي: حفر الباطن"><div class="city-hero-copy">حفر الباطن</div></div></section><section class="sample"><h2>الطائف — امتداد تمثيلي محسّن بالذكاء الاصطناعي</h2><p>امتداد تمثيلي محسّن بالذكاء الاصطناعي. Saudi Heritage Commission / هيئة التراث <a href="https://commons.wikimedia.org/wiki/File:%D9%82%D8%B5%D8%B1_%D8%B4%D8%A8%D8%B1%D8%A7.jpg">الصورة الأصلية</a> <a href="https://creativecommons.org/licenses/by-sa/4.0/">CC BY-SA 4.0</a></p><div id="faithful-b-taif" class="city-hero"><img style="object-position:50% 65%" src="faithful-batch-b/taif-panorama-faithful.webp" alt="تصور تمثيلي: الطائف"><div class="city-hero-copy">الطائف</div></div></section><section class="sample"><h2>نجران — امتداد تمثيلي محسّن بالذكاء الاصطناعي</h2><p>امتداد تمثيلي محسّن بالذكاء الاصطناعي. Richard Mortel <a href="https://commons.wikimedia.org/wiki/File:Imarah_Palace.jpg">الصورة الأصلية</a> <a href="https://creativecommons.org/licenses/by/2.0/">CC BY 2.0</a></p><div id="faithful-b-najran" class="city-hero"><img style="object-position:50% 75%" src="faithful-batch-b/najran-panorama-faithful.webp" alt="تصور تمثيلي: نجران"><div class="city-hero-copy">نجران</div></div></section><section class="sample"><h2>جازان — امتداد تمثيلي محسّن بالذكاء الاصطناعي</h2><p>امتداد تمثيلي محسّن بالذكاء الاصطناعي. Saudi Heritage Commission / هيئة التراث <a href="https://commons.wikimedia.org/wiki/File:%D8%A7%D9%84%D9%82%D9%84%D8%B9%D8%A9_%D8%A7%D9%84%D8%AF%D9%88%D8%B3%D8%B1%D9%8A%D8%A9.jpg">الصورة الأصلية</a> <a href="https://creativecommons.org/licenses/by-sa/4.0/">CC BY-SA 4.0</a></p><div id="faithful-b-jazan" class="city-hero"><img style="object-position:50% 60%" src="faithful-batch-b/jazan-panorama-faithful.webp" alt="تصور تمثيلي: جازان"><div class="city-hero-copy">جازان</div></div></section><section class="sample"><h2>النماص — امتداد تمثيلي محسّن بالذكاء الاصطناعي</h2><p>امتداد تمثيلي محسّن بالذكاء الاصطناعي. Richard Mortel <a href="https://www.flickr.com/photos/prof_richard/50922230847">الصورة الأصلية</a> <a href="https://creativecommons.org/licenses/by/2.0/deed.en">CC BY 2.0</a></p><div id="faithful-b-alnamas" class="city-hero"><img style="object-position:50% 70%" src="faithful-batch-b/alnamas-panorama-faithful.webp" alt="تصور تمثيلي: النماص"><div class="city-hero-copy">النماص</div></div></section><section class="sample"><h2>بدر — امتداد تمثيلي محسّن بالذكاء الاصطناعي</h2><p>امتداد تمثيلي محسّن بالذكاء الاصطناعي. Richard Mortel <a href="https://www.flickr.com/photos/prof_richard/51279270124">الصورة الأصلية</a> <a href="https://creativecommons.org/licenses/by/2.0/">CC BY 2.0</a></p><div id="faithful-b-badr" class="city-hero"><img style="object-position:50% 65%" src="faithful-batch-b/badr-panorama-faithful.webp" alt="تصور تمثيلي: بدر"><div class="city-hero-copy">بدر</div></div></section><section class="sample"><h2>بلجرشي — امتداد تمثيلي محسّن بالذكاء الاصطناعي</h2><p>امتداد تمثيلي محسّن بالذكاء الاصطناعي. وكالة الأنباء السعودية (واس) <a href="https://cc.spa.gov.sa/ar/news/2287739">الصورة الأصلية</a> <a href="https://creativecommons.org/licenses/by-sa/4.0/">CC BY-SA 4.0</a></p><div id="faithful-b-baljurashi" class="city-hero"><img style="object-position:50% 50%" src="faithful-batch-b/baljurashi-panorama-faithful.webp" alt="تصور تمثيلي: بلجرشي"><div class="city-hero-copy">بلجرشي</div></div></section></main></html>
